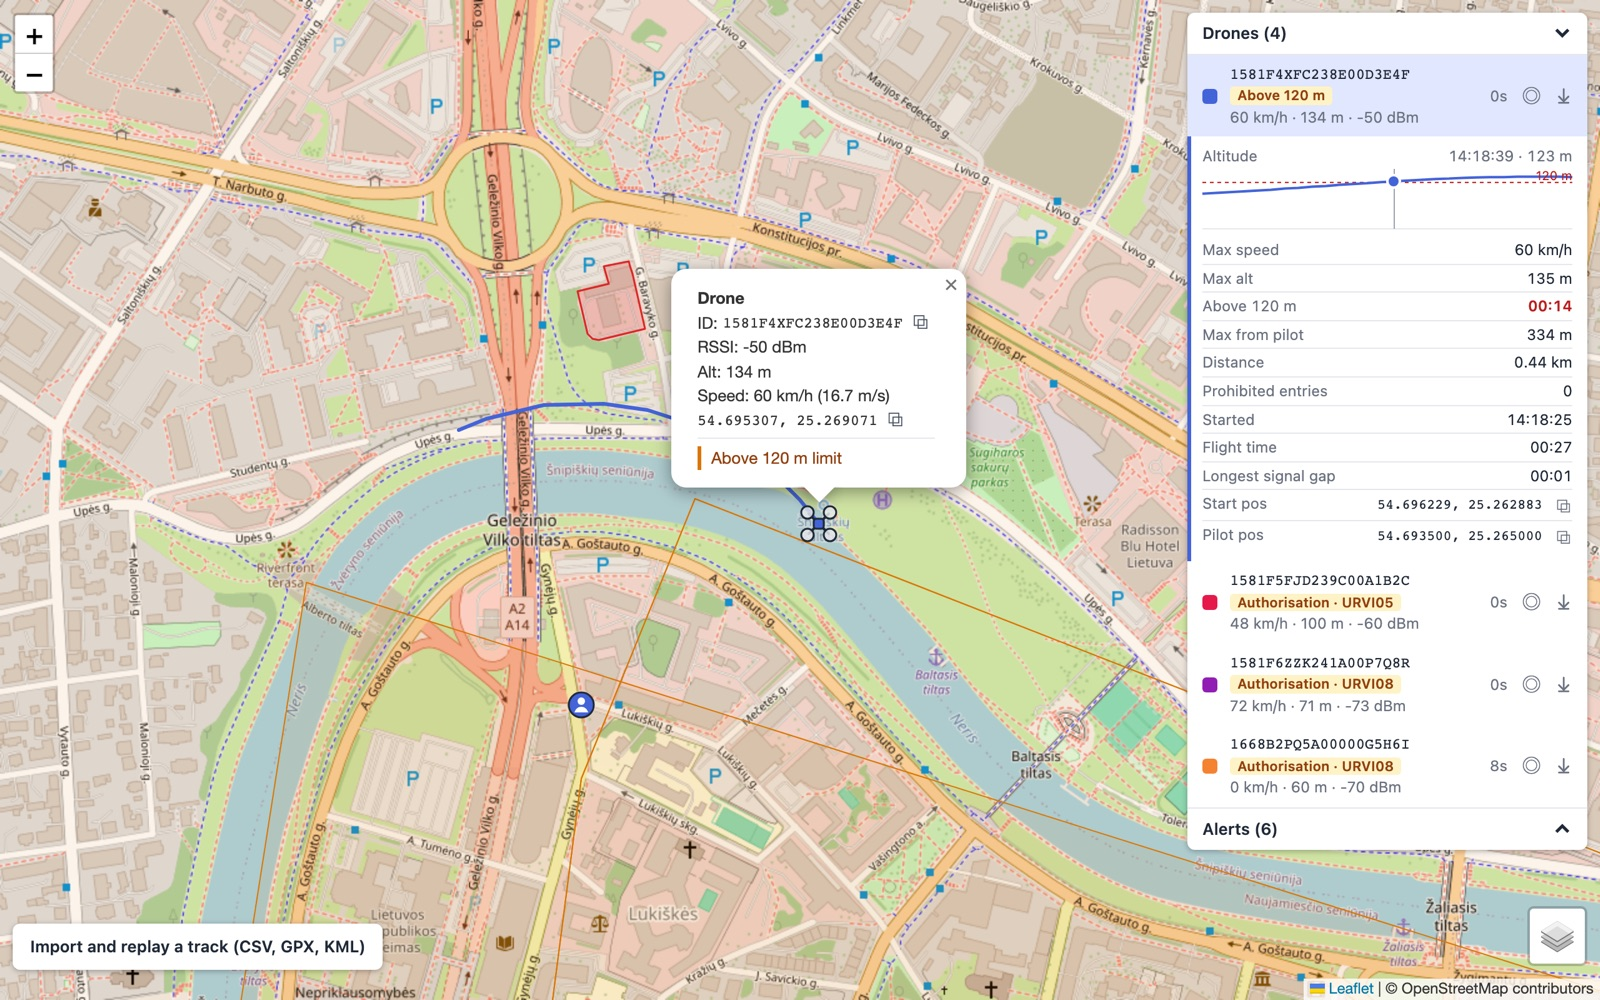
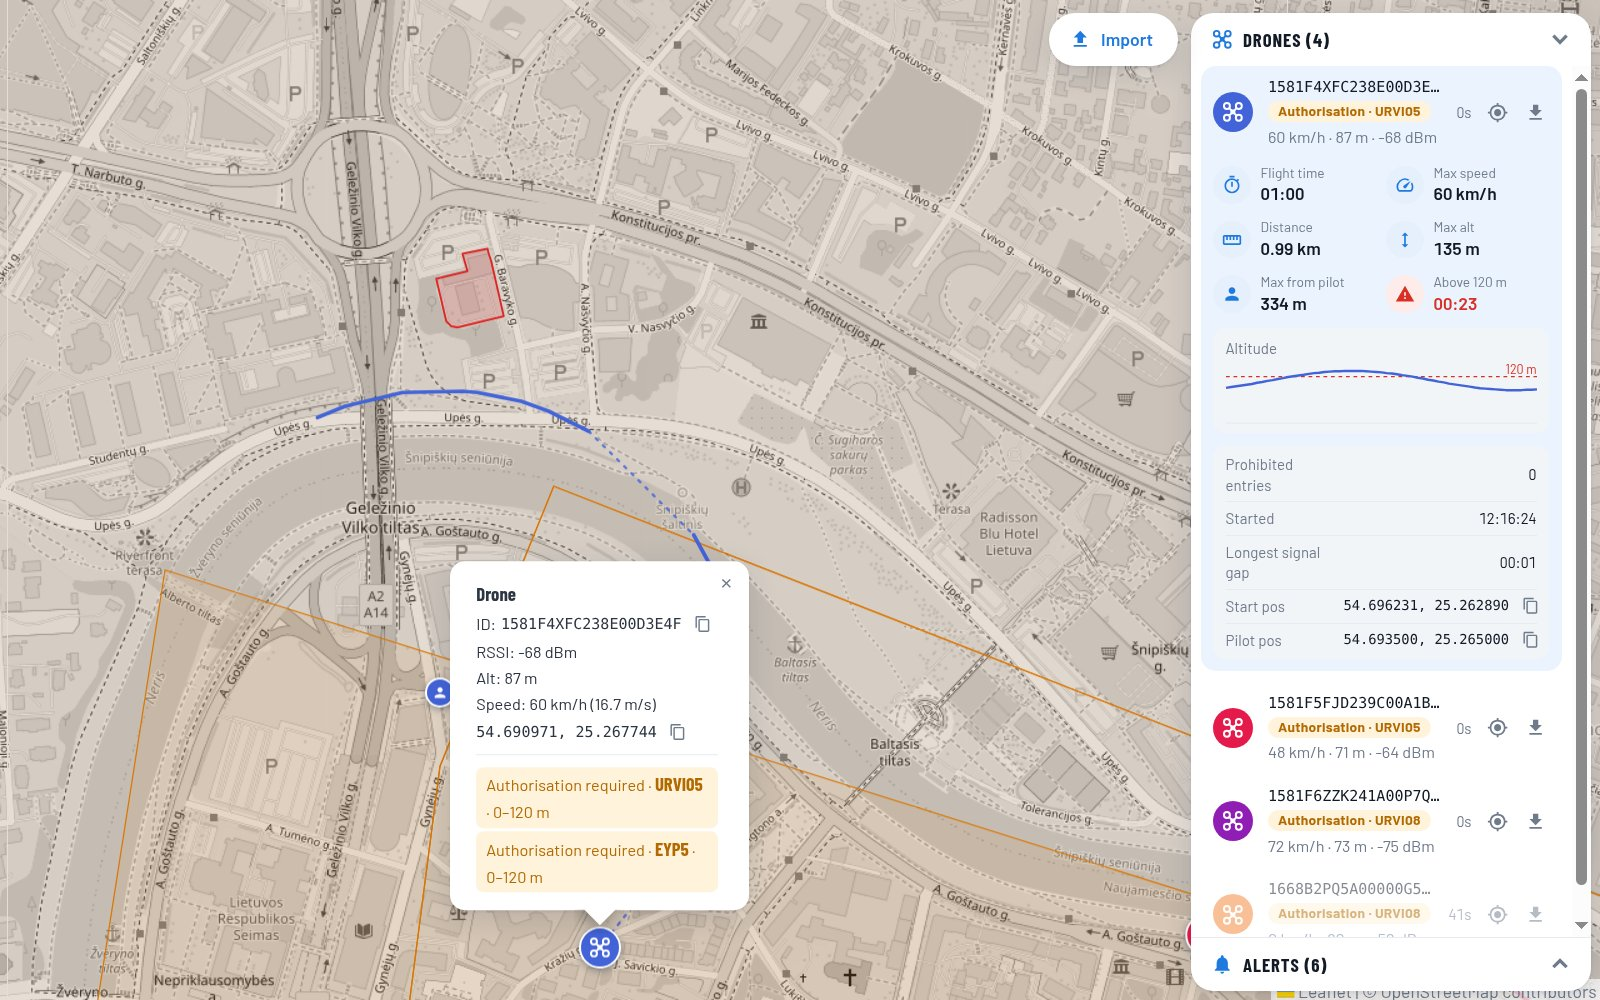
feat: updated images

diff --git a/README.md b/README.md
@@ -15,8 +15,8 @@ Live map of object positions from Remote ID detections, built with Vue 3, TypeSc
 - New object alerts, also kept in an alert log
 - Track history and the alert log are saved in the browser and survive page reloads
 - Fades objects after 10 s without updates, removes them after 60 s
-- Map, satellite map layers
-- English and Lithuanian interface; switch the language at the bottom of the layers control (bottom right). The choice is remembered; the default follows the browser language
+- Light (default), dark, full-colour and satellite base maps; panels switch to dark colours on the dark map
+- English and Lithuanian interface; switch the language in the layers panel (round button, bottom right). The choice is remembered; the default follows the browser language
 - Replay recorded tracks (CSV, GPX, KML) with play/pause, seek and speed control
 
 ## Flight stats
@@ -104,7 +104,7 @@ VITE_USE_MOCK=false npm run build
 
 When running `npm run dev`, the app loads Lithuanian UAS geographical zones from the ANS UTM map (`utm.ans.lt`) through the Vite dev server and:
 
-- draws them as a "Drone zones" layer (red: prohibited, amber: authorisation required, grey: information)
+- draws them as a "Drone zones" layer, off by default, switched on in the layers panel (red: prohibited, amber: authorisation required, grey: information)
 - checks each object: inside a zone horizontally and between the zone's lower and upper limit
 - flags objects above 120 m
 - alerts when an object enters a prohibited zone or goes above 120 m
@@ -123,6 +123,7 @@ src/
   i18n.ts                         # English / Lithuanian texts, language switch
   config.ts                       # polling, fade and removal timings
   colors.ts                       # per-object colors
+  icons.ts                        # SVG icons used across the UI
   export.ts                       # GPX / KML / CSV export
   mock/detections.ts              # simulated objects
   composables/useDetections.ts    # 1 s polling
@@ -138,6 +139,8 @@ src/
   components/FlightStats.vue      # flight stats under a list item
   components/ToastStack.vue       # alert messages
   components/ReplayPanel.vue      # replay controls
+  components/LayersPanel.vue      # base map, zones layer and language picker
+  components/Icon.vue             # renders an icon from icons.ts
   App.vue
 ```
 
